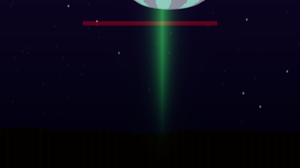
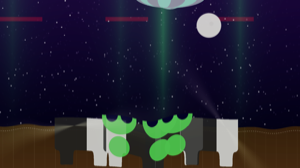
feat: add mushroom shader with screenshots and thumbnails
Add new mushroom.metal shader:
- 3D rotating neon rainbow mushrooms as particles
- Fractal neon background
- 40 mushrooms at varied heights with X-axis rotation

Also:
- Update all screenshots and thumbnails (61 shaders)
- Fix mushroom shader compilation errors
- Update docs/shaders.md with mushroom entry

diff --git a/docs/shaders.md b/docs/shaders.md
@@ -2,7 +2,7 @@
 
 This document provides a complete catalog of all available shaders in ShaderCandy, organized by category.
 
-**Total Shaders:** 68 unique effects
+**Total Shaders:** 64 unique effects
 **Platforms:** macOS (Metal), Linux (OpenGL/GLSL)
 
 ---
@@ -173,6 +173,23 @@ Warm flowing gradients with smooth, emotive transitions.
 - Retro sun
 - Palm tree silhouettes
 - Scanline effects
+
+---
+
+### Mushroom
+**File:** `effects/mushroom.metal`
+
+3D rotating neon rainbow colored mushrooms as particles on a fractal neon background. Features organic mushroom shapes with caps and stalks, rotating on the X-axis at different heights and sizes.
+
+![Mushroom](../screenshots/mushroom.png)
+
+**Features:**
+- SDF-based mushroom caps and stalks
+- 40 rotating mushroom particles at varied heights
+- Fractal neon background using multi-layer noise
+- Rainbow color shifting effect over time
+- X-axis rotation for each mushroom particle
+- Glow effect based on distance field
 
 ---
 
